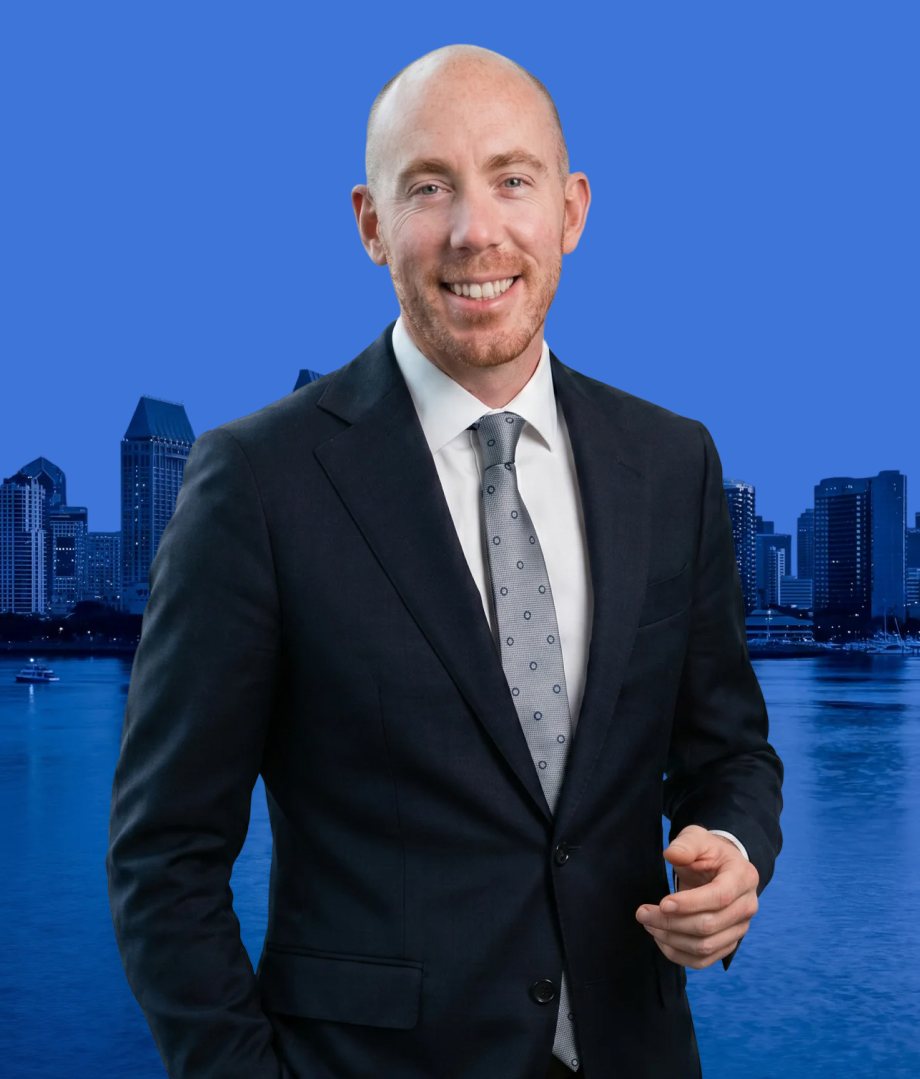
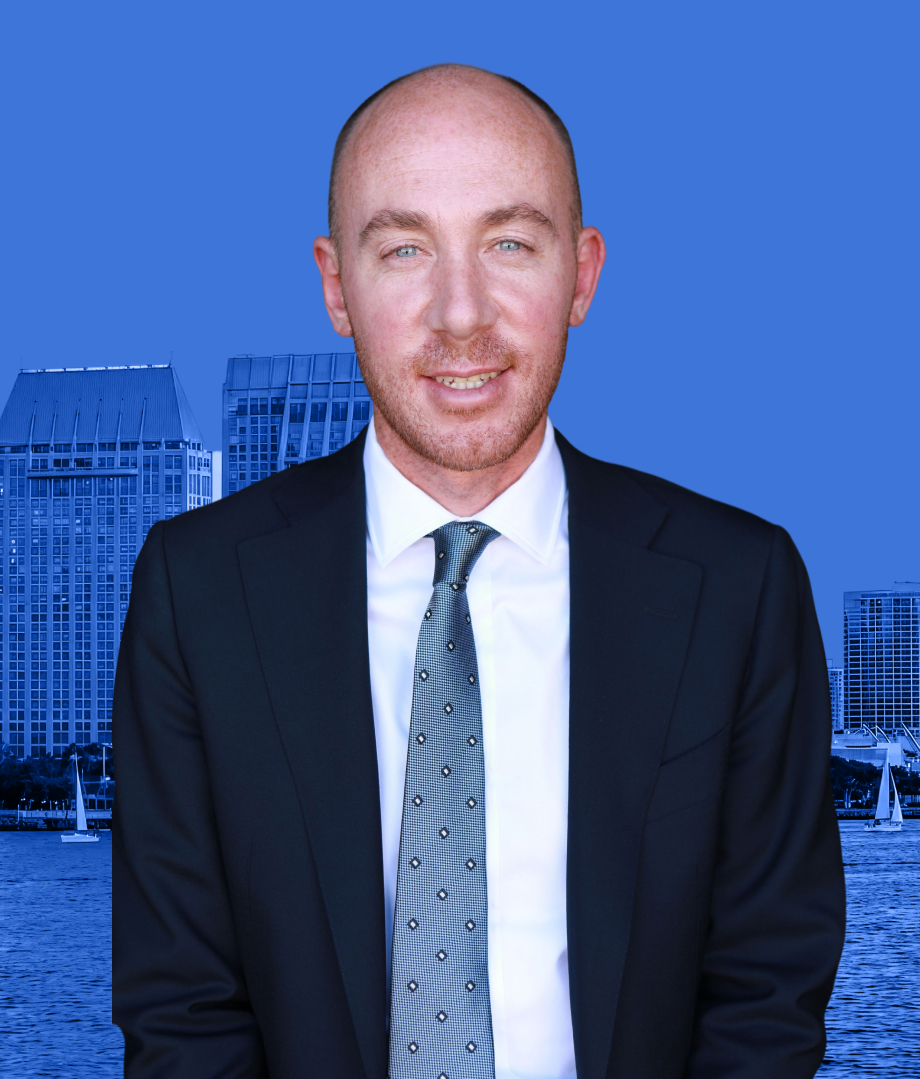
feat: rename podcast to "Personal Injury Law Uncovered", refresh imagery & stats
- Retitle show everywhere: "San Diego Accident Attorneys & Law ..." (all
  variants) -> "Personal Injury Law Uncovered with Liam Perry"; simplify
  layout META_TITLE and de-duplicate episode <title>
- Stats: 20+/$20M+ -> 30+/$30M+ across copy
- New Liam imagery: hero (hero-attorney.png), about + Behind the Podcast
  (attorney-1.jpg), CTA subject; fix CTA head clipping
- Update PWA manifest name

diff --git a/src/themes/v1/pages/V1Home.tsx b/src/themes/v1/pages/V1Home.tsx
@@ -66,7 +66,7 @@ const homeSchema = {
       "@type": "WebSite",
       "@id": "https://podcast-sandiegocaraccidentlawyer.vercel.app/#website",
       "url": "https://podcast-sandiegocaraccidentlawyer.vercel.app/",
-      "name": "San Diego Accident Attorneys & Law w. Liam Perry",
+      "name": "Personal Injury Law Uncovered with Liam Perry",
       "description": "Liam Perry, founding attorney of Perry Personal Injury Lawyers and former insurance-defense litigator, walks San Diego drivers through California car accident and personal injury law.",
       "publisher": {
         "@id": "https://perrypi.com/#org"
@@ -85,7 +85,7 @@ const homeSchema = {
       "@type": "WebPage",
       "@id": "https://podcast-sandiegocaraccidentlawyer.vercel.app/#webpage",
       "url": "https://podcast-sandiegocaraccidentlawyer.vercel.app/",
-      "name": "San Diego Accident Attorneys & Law w. Liam Perry | Perry Personal Injury Lawyers",
+      "name": "Personal Injury Law Uncovered with Liam Perry | Perry Personal Injury Lawyers",
       "description": "Liam Perry covers California car accident law from the plaintiff side — coverage, evidence preservation, and how insurance defense lawyers actually evaluate claims.",
       "isPartOf": {
         "@id": "https://podcast-sandiegocaraccidentlawyer.vercel.app/#website"
@@ -118,8 +118,8 @@ const homeSchema = {
     {
       "@type": "PodcastSeries",
       "@id": "https://podcast-sandiegocaraccidentlawyer.vercel.app/#podcast",
-      "name": "San Diego Accident Attorneys & Law w. Liam Perry",
-      "description": "San Diego Accident Attorneys & Law with Liam Perry covers California personal injury law from the plaintiff side — with the added perspective of years spent defending insurance carriers before switching to plaintiffs' work. Episodes address what San Diego drivers actually need to know about coverage, evidence, and settlement.",
+      "name": "Personal Injury Law Uncovered with Liam Perry",
+      "description": "Personal Injury Law Uncovered with Liam Perry covers California personal injury law from the plaintiff side — with the added perspective of years spent defending insurance carriers before switching to plaintiffs' work. Episodes address what San Diego drivers actually need to know about coverage, evidence, and settlement.",
       "url": "https://podcast-sandiegocaraccidentlawyer.vercel.app/",
       "image": "https://podcast-sandiegocaraccidentlawyer.vercel.app/Hero.jpg",
       "author": {
@@ -158,7 +158,7 @@ const homeSchema = {
       "mainEntity": [
         {
           "@type": "Question",
-          "name": "What topics does Liam Perry cover on San Diego Accident Attorneys & Law?",
+          "name": "What topics does Liam Perry cover on Personal Injury Law Uncovered?",
           "acceptedAnswer": {
             "@type": "Answer",
             "text": "Liam Perry covers everything a San Diego driver needs to know about California car accident, motorcycle, truck, and rideshare law — including uninsured and underinsured motorist coverage, how insurance defense lawyers evaluate claims (Liam spent years on that side), late-onset neck and back injuries, California lane-splitting law, and when a personal injury case actually needs to go to trial."
@@ -169,7 +169,7 @@ const homeSchema = {
           "name": "How often are new episodes released?",
           "acceptedAnswer": {
             "@type": "Answer",
-            "text": "San Diego Accident Attorneys & Law publishes on a weekly, evergreen cadence. Episodes run 40–70 minutes and focus on one topic in depth. Subscribe via the platform links in the footer to be notified when each episode drops."
+            "text": "Personal Injury Law Uncovered publishes on a weekly, evergreen cadence. Episodes run 40–70 minutes and focus on one topic in depth. Subscribe via the platform links in the footer to be notified when each episode drops."
           }
         },
         {

diff --git a/src/themes/v1/pages/V1EpisodePage.tsx b/src/themes/v1/pages/V1EpisodePage.tsx
@@ -15,7 +15,7 @@ const episodeSchema = {
       "@type": "WebPage",
       "@id": "https://podcast-sandiegocaraccidentlawyer.vercel.app/episode/1#webpage",
       "url": "https://podcast-sandiegocaraccidentlawyer.vercel.app/episode/1",
-      "name": "What Every San Diego Driver Needs to Know in the First 72 Hours After a Crash | Episode 1 | San Diego Accident Attorneys & Law w. Liam Perry",
+      "name": "What Every San Diego Driver Needs to Know in the First 72 Hours After a Crash | Episode 1 | Personal Injury Law Uncovered with Liam Perry",
       "description": "Liam Perry walks through exactly what a San Diego driver should do in the first 72 hours after a car accident — from medical care to evidence preservation to the call no one should make.",
       "isPartOf": {
         "@id": "https://podcast-sandiegocaraccidentlawyer.vercel.app/#website"
@@ -58,7 +58,7 @@ const episodeSchema = {
       "@type": "PodcastEpisode",
       "@id": "https://podcast-sandiegocaraccidentlawyer.vercel.app/episode/1#episode",
       "name": "What Every San Diego Driver Needs to Know in the First 72 Hours After a Crash",
-      "description": "In the debut episode of San Diego Accident Attorneys & Law, Liam Perry walks through exactly what a San Diego driver should do in the first 72 hours after a car accident — what to say (and not say) to the adjuster, when to file the SR-1, why late-onset neck and back pain does not mean it is too late, and how California's pure comparative negligence rule affects what a claim is actually worth. TODO: finalize title, description, and episode art from final recording and show notes.",
+      "description": "In the debut episode of Personal Injury Law Uncovered, Liam Perry walks through exactly what a San Diego driver should do in the first 72 hours after a car accident — what to say (and not say) to the adjuster, when to file the SR-1, why late-onset neck and back pain does not mean it is too late, and how California's pure comparative negligence rule affects what a claim is actually worth. TODO: finalize title, description, and episode art from final recording and show notes.",
       "episodeNumber": 1,
       "url": "https://podcast-sandiegocaraccidentlawyer.vercel.app/episode/1",
       "image": "https://podcast-sandiegocaraccidentlawyer.vercel.app/cover.jpg",

diff --git a/src/themes/v1/components/PodcastSubscribeCTA.tsx b/src/themes/v1/components/PodcastSubscribeCTA.tsx
@@ -24,12 +24,13 @@ const PodcastSubscribeCTA = () => {
           {/* CTA Card */}
           <div className="relative bg-secondary/95 rounded-3xl mx-4 md:mx-8 overflow-visible">
             <div className="grid grid-cols-1 md:grid-cols-5 items-end relative">
-              {/* Left Side - Subject Cutout */}
-              <div className="relative md:col-span-2 md:absolute md:left-0 md:bottom-0 md:w-2/5 flex justify-center md:justify-start order-2 md:order-1">
+              {/* Left Side - Subject Cutout — spans the full card height so the
+                  figure scales to fit and the head is never clipped */}
+              <div className="relative md:col-span-2 md:absolute md:left-0 md:top-0 md:bottom-0 md:w-2/5 flex items-end justify-center md:justify-start order-2 md:order-1">
                 <img
                   src="/cta-subject.png"
                   alt="Attorneys"
-                  className="w-full max-w-[280px] md:max-w-[420px] h-auto object-contain"
+                  className="w-full max-w-[280px] h-auto md:w-auto md:max-w-none md:h-full object-contain object-bottom"
                 />
               </div>
 

diff --git a/src/themes/v1/components/Hero.tsx b/src/themes/v1/components/Hero.tsx
@@ -49,7 +49,7 @@ const Hero = ({ latestEpisode }: HeroProps) => {
       <div className="hidden md:block absolute inset-0 z-[1] pointer-events-none">
         <div className="relative mx-auto h-full max-w-container px-4 md:px-12">
           <img
-            src="/attorney.png"
+            src="/hero-attorney.png"
             alt={content.heroTitle}
             className="absolute bottom-0 right-4 md:right-12 h-[68%] lg:h-[78%] w-auto object-contain object-bottom block"
           />
@@ -125,7 +125,7 @@ const Hero = ({ latestEpisode }: HeroProps) => {
         {/* Attorney Image - Mobile only, stacked below the text */}
         <div className="md:hidden flex justify-center mt-2">
           <img
-            src="/attorney.png"
+            src="/hero-attorney.png"
             alt={content.heroTitle}
             className="w-auto max-h-[55vh] object-contain object-bottom"
           />

diff --git a/src/app/episode/[id]/page.tsx b/src/app/episode/[id]/page.tsx
@@ -28,7 +28,7 @@ export async function generateMetadata({ params }: { params: Promise<{ id: strin
   const canonicalPath = `/episode/${episode.slug ?? episode.id}`
 
   return {
-    title: `${episode.title} | San Diego Accident Attorneys & Law w. Liam Perry`,
+    title: episode.title,
     description,
     alternates: {
       canonical: canonicalPath,
@@ -37,7 +37,7 @@ export async function generateMetadata({ params }: { params: Promise<{ id: strin
       title: episode.title,
       description,
       url: `https://perrypi.com${canonicalPath}`,
-      siteName: 'San Diego Accident Attorneys & Law w. Liam Perry',
+      siteName: 'Personal Injury Law Uncovered with Liam Perry',
       type: 'article',
       images: [{ url: imageUrl, width: 1200, height: 630, alt: episode.title }],
     },

diff --git a/src/app/layout.tsx b/src/app/layout.tsx
@@ -14,9 +14,8 @@ const inter = Inter({
 
 const SITE_URL = siteConfig.podcastUrl || 'https://podcast-sandiegocaraccidentlawyer.vercel.app'
 
-// Meta/SEO title — "Podcast" inserted before the host and "w." spelled out.
-// Visible on-page headings use siteConfig.podcastName directly.
-const META_TITLE = siteConfig.podcastName.replace(' w. ', ' Podcast with ')
+// Meta/SEO title — same as the canonical podcast name.
+const META_TITLE = siteConfig.podcastName
 
 export const metadata: Metadata = {
   metadataBase: new URL(SITE_URL),
